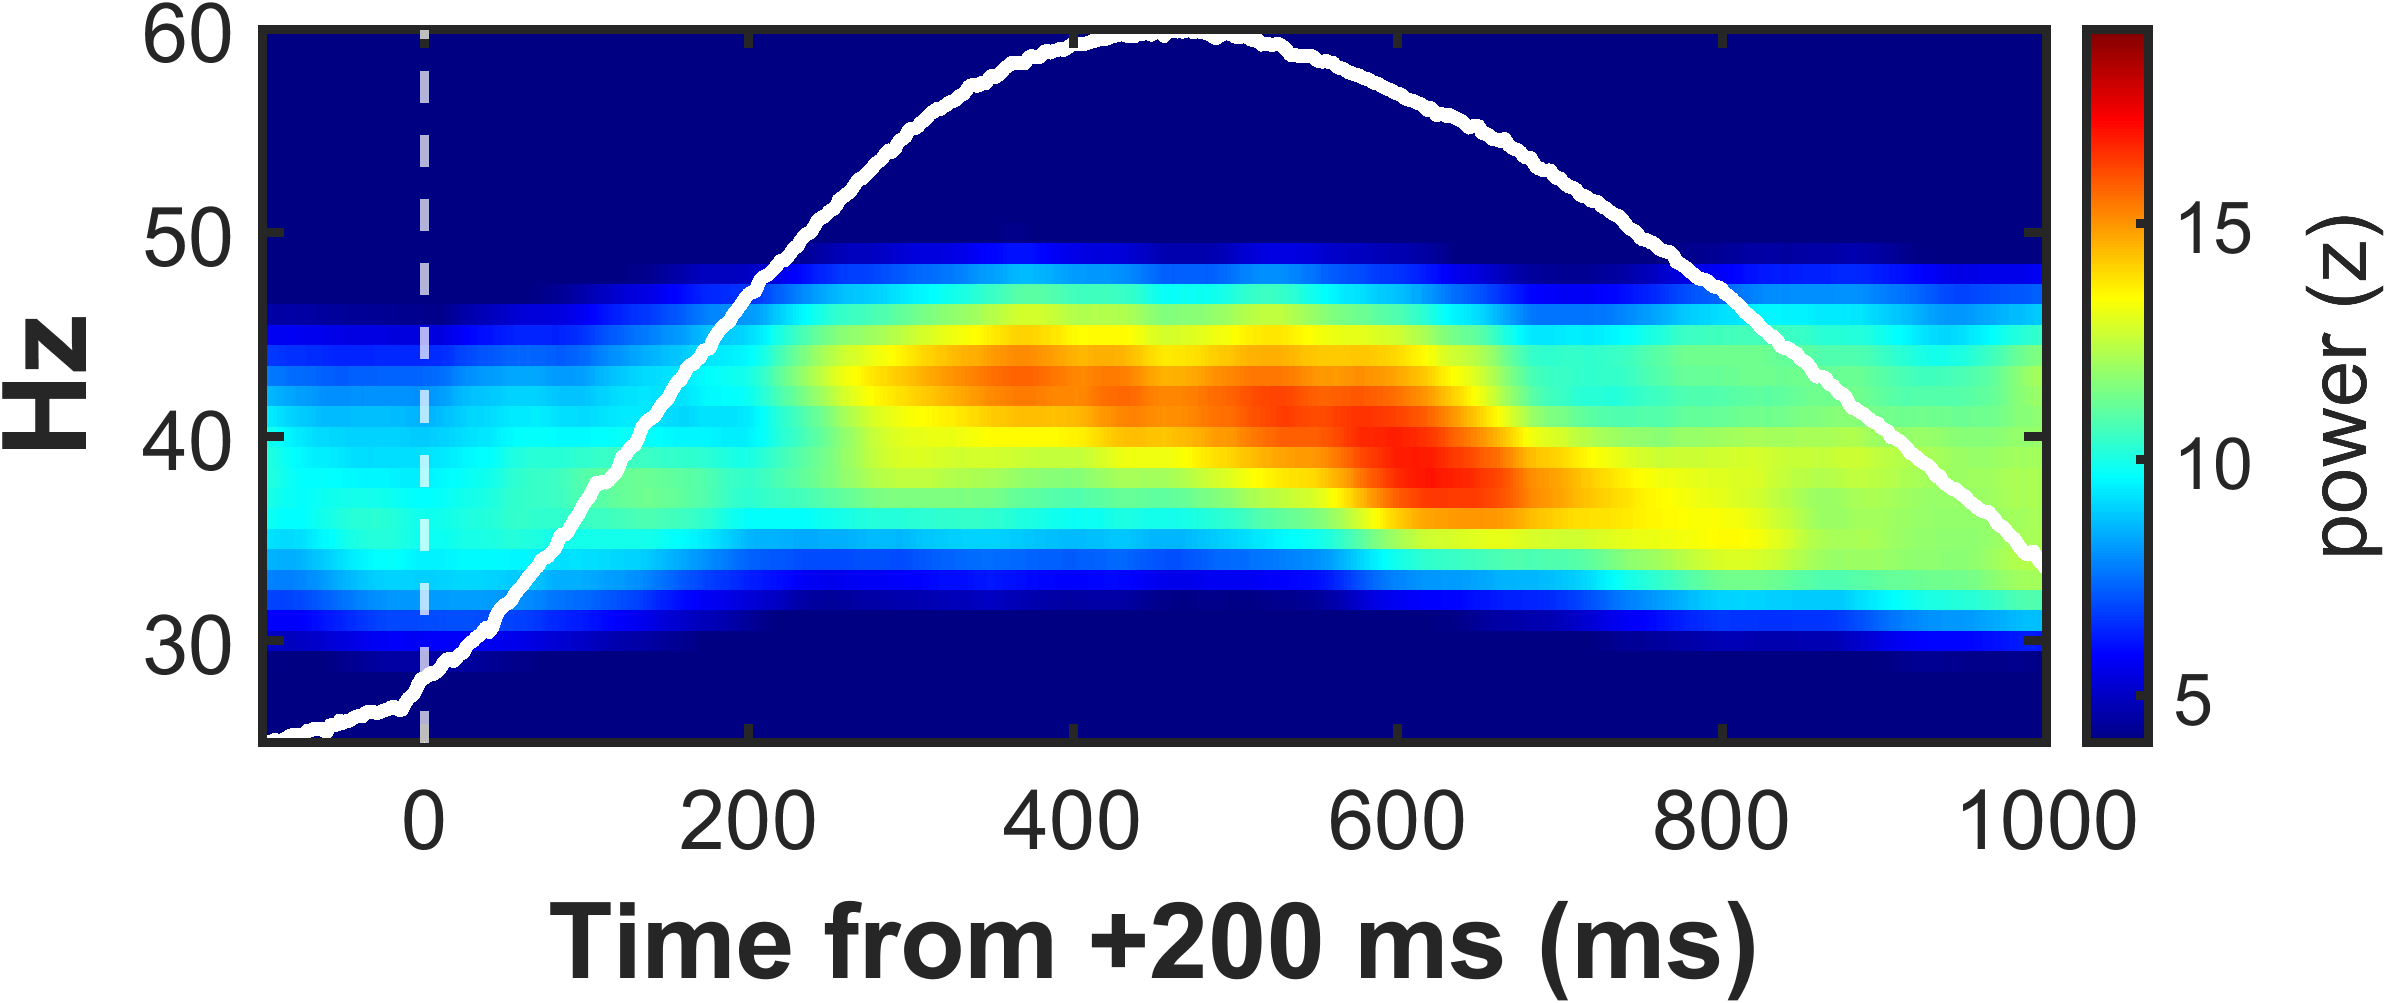
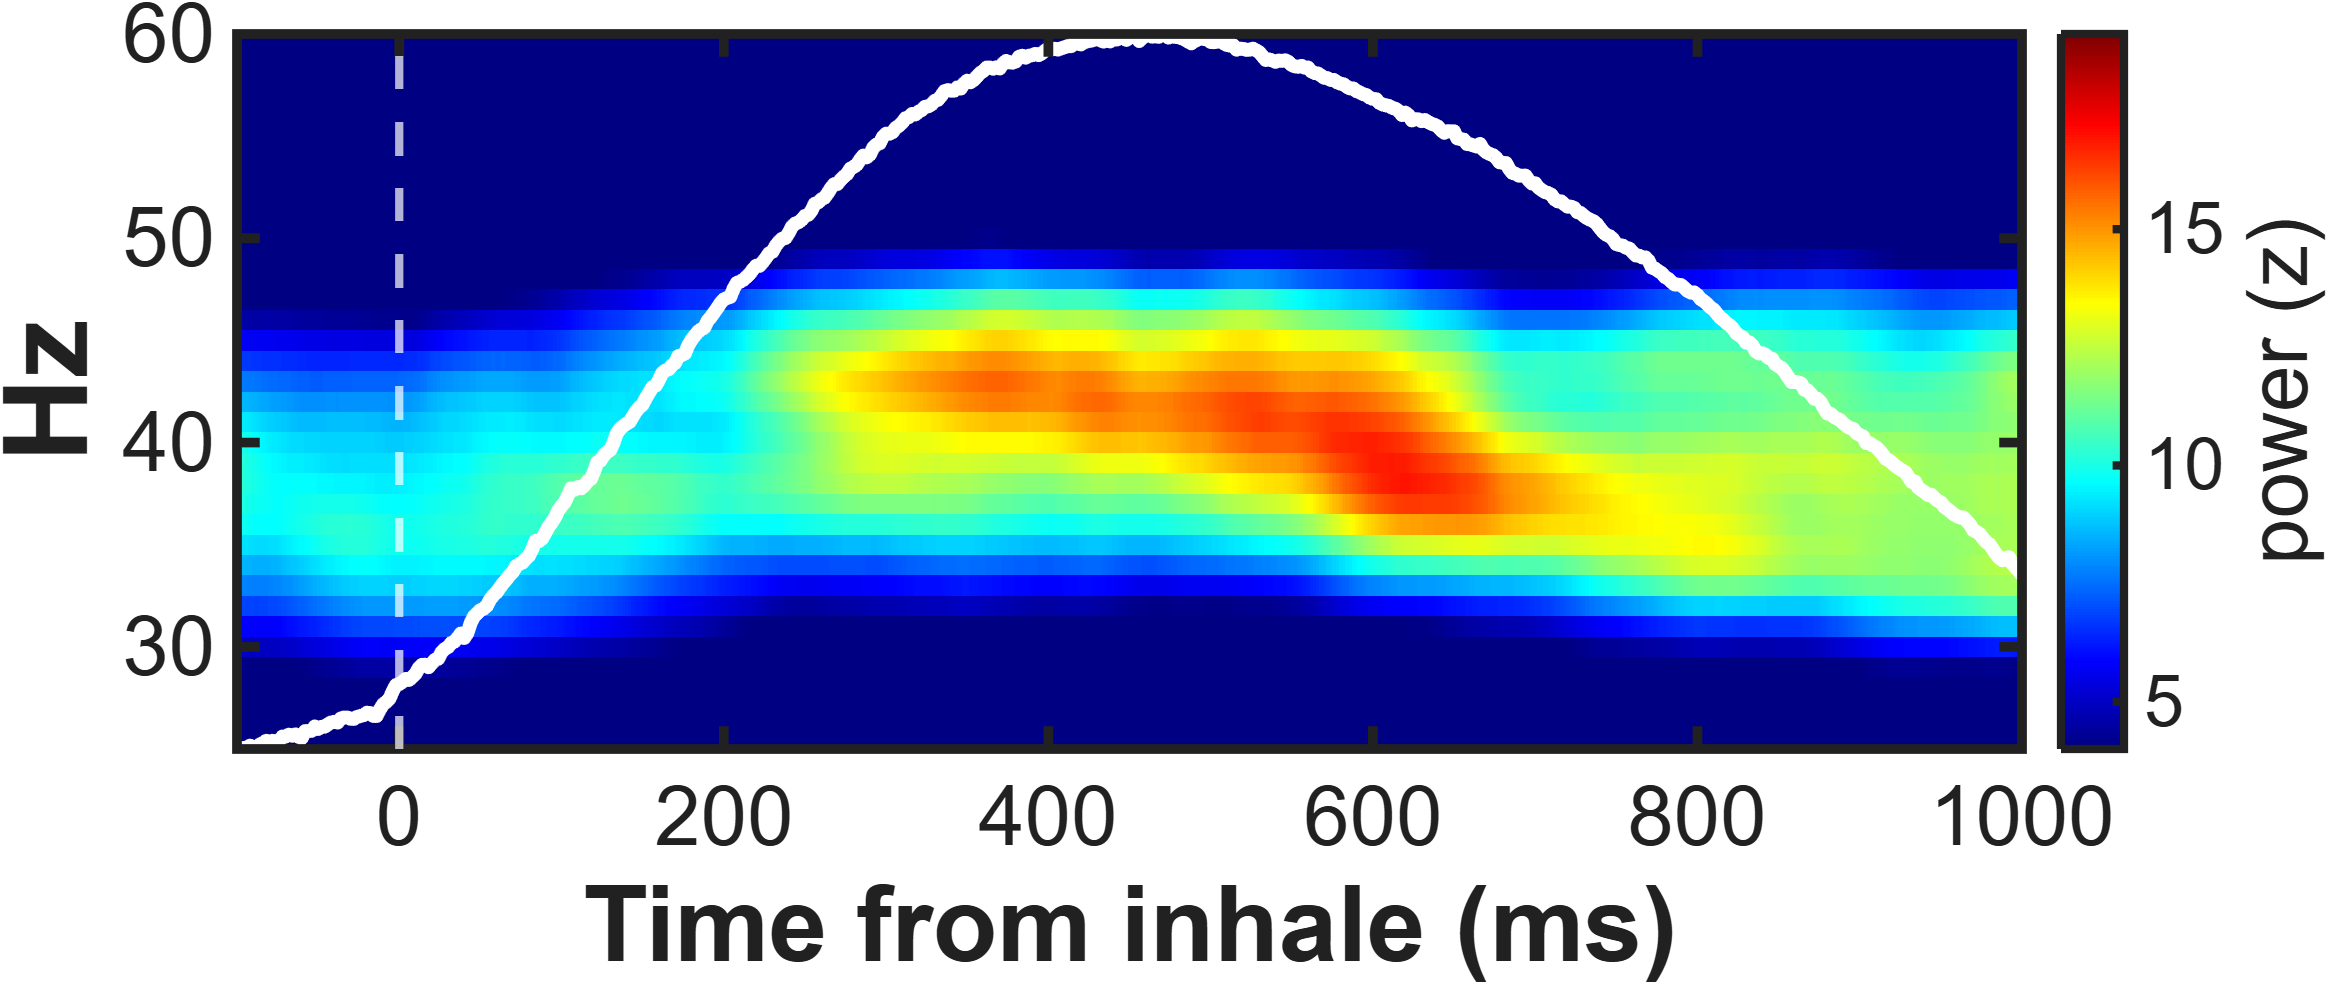
plotsForBruce_2: grant breathing set — "Time from inhale" axis + stale-group-map fix
- x-axis label "Time from +200 ms (ms)" -> "Time from inhale (ms)" in the breathing
  spectrogram/t-map renderers
- grant_rebuild_group_maps.m: rebuild the 8 grant_group_meanZ_*.mat maps from
  grant_breathing_R.mat (aggregation only) and re-render. The saved maps had been left
  stale by an interrupted grant_breathing_analysis run (control map empty -> all-blue
  figure; other groups reduced to one participant); all 8 heatmaps regenerated with the
  correct counts (all 19p/2221br, control 6p/482br, dupiS1 12p/706br, dupiS23 11p/1033br)

diff --git a/plotsForBruce_2/code/grant_rebuild_group_maps.m b/plotsForBruce_2/code/grant_rebuild_group_maps.m
@@ -1,0 +1,33 @@
+function grant_rebuild_group_maps()
+% Rebuild the 8 breathing group meanZ maps (ALL/control/dupiS1/dupiS23 x audiobook/focused)
+% from grant_breathing_R.mat -- the per-session source of truth -- WITHOUT re-extraction,
+% then re-render. Use this whenever the saved grant_group_meanZ_*.mat maps are stale or
+% partial (e.g. a grant_breathing_analysis run that saved R but died before rewriting the
+% maps, leaving an empty control map / undercounted groups). Aggregation matches
+% grant_breathing_analysis exactly.
+codeDir=fileparts(mfilename('fullpath')); proj=fileparts(codeDir); addpath(codeDir);
+T=fullfile(proj,'out','tables');
+L=load(fullfile(T,'grant_breathing_R.mat')); R=L.R; tMsF=L.tMsF; F=L.F;
+groups={'all','control','dupiS1','dupiS23'}; tasks={'audiobook','focusedBreathing'};
+M=struct();
+for g=1:numel(groups), for t=1:2
+  M.(groups{g}).(tasks{t})=struct('sumZ',zeros(numel(F),numel(tMsF)),'sumRsp',zeros(1,numel(tMsF)),'n',0,'parts',{{}});
+end, end
+for i=1:numel(R), r=R{i}; if isempty(r)||strcmp(r.group,'other'), continue; end
+  for t=1:2, tag=tasks{t}; d=r.(tag); if d.n==0, continue; end
+    for gname=[string(r.group) "all"], gg=char(gname);
+      if ~isfield(M,gg), continue; end
+      M.(gg).(tag).sumZ=M.(gg).(tag).sumZ+d.sumZ; M.(gg).(tag).sumRsp=M.(gg).(tag).sumRsp+d.sumRsp;
+      M.(gg).(tag).n=M.(gg).(tag).n+d.n; M.(gg).(tag).parts{end+1}=r.participant;
+    end
+  end
+end
+for g=1:numel(groups), for t=1:2
+  gg=groups{g}; tag=tasks{t}; d=M.(gg).(tag);
+  meanZ=d.sumZ/max(d.n,1); meanRsp=d.sumRsp/max(d.n,1); nP=numel(unique(d.parts)); nTot=d.n;
+  save(fullfile(T,sprintf('grant_group_meanZ_%s_%s.mat',gg,tag)),'meanZ','meanRsp','tMsF','F','nP','nTot');
+  fprintf('  rebuilt %-8s %-16s nP=%d nTot=%d\n', gg, tag, nP, nTot);
+end, end
+fprintf('rebuilt 8 group maps from grant_breathing_R.mat; re-rendering...\n');
+grant_rerender_breathing();
+end

diff --git a/plotsForBruce_2/code/grant_breathing_ttest_maps.m b/plotsForBruce_2/code/grant_breathing_ttest_maps.m
@@ -57,7 +57,7 @@ imagesc(ax,tb,Fb,t,[-cmax cmax]); axis(ax,'xy'); colormap(ax,rb()); hold(ax,'on'
 if any(sig(:)), contour(ax,tb,Fb,double(sig),[0.5 0.5],'k','LineWidth',3); end
 xline(ax,0,'k--','LineWidth',2);
 set(ax,'FontSize',30,'LineWidth',3.5); ylabel(ax,'Hz','FontWeight','bold','FontSize',42);
-xlabel(ax,'Time from +200 ms (ms)','FontWeight','bold','FontSize',38);
+xlabel(ax,'Time from inhale (ms)','FontWeight','bold','FontSize',38);
 cb=colorbar(ax); ax.Position=[0.15 0.26 0.68 0.60]; cb.Position=[0.845 0.26 0.024 0.60];
 cb.LineWidth=3; cb.FontSize=26; cb.Label.String='t'; cb.Label.FontSize=32;
 title(ax,ttl,'FontSize',24,'FontWeight','bold','Interpreter','none');

diff --git a/plotsForBruce_2/code/grant_rerender_breathing.m b/plotsForBruce_2/code/grant_rerender_breathing.m
@@ -7,7 +7,7 @@ codeDir=fileparts(mfilename('fullpath')); proj=fileparts(codeDir); T=fullfile(pr
 groups={'all','control','dupiS1','dupiS23'}; tasks={'audiobook','focusedBreathing'};
 for g=1:numel(groups), for t=1:numel(tasks)
   mp=fullfile(T,sprintf('grant_group_meanZ_%s_%s.mat',groups{g},tasks{t}));
-  grant_group_render(mp, tasks{t}, [100 1000], [], [25 60], 57, climUp, 4, groups{g}, 'Time from +200 ms (ms)');
+  grant_group_render(mp, tasks{t}, [100 1000], [], [25 60], 57, climUp, 4, groups{g}, 'Time from inhale (ms)');
 end, end
 fprintf('re-rendered 8 breathing heatmaps at clim [4 %.2f]\n', climUp);
 end

diff --git a/plotsForBruce_2/code/grant_breathing_analysis.m b/plotsForBruce_2/code/grant_breathing_analysis.m
@@ -143,7 +143,7 @@ sharedUp=prctile(allv,99.5);
 fprintf('\nshared clim upper=%.2f (floor 4)\n', sharedUp);
 
 % ---------- render 8 ----------
-xlab='Time from +200 ms (ms)';
+xlab='Time from inhale (ms)';
 for g=1:numel(groups), for t=1:2
   gg=groups{g}; tag=tasks{t};
   mp=fullfile(T,sprintf('grant_group_meanZ_%s_%s.mat',gg,tag));
